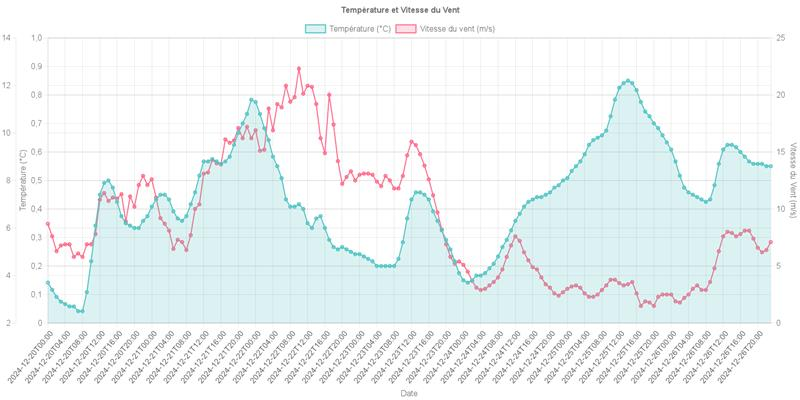
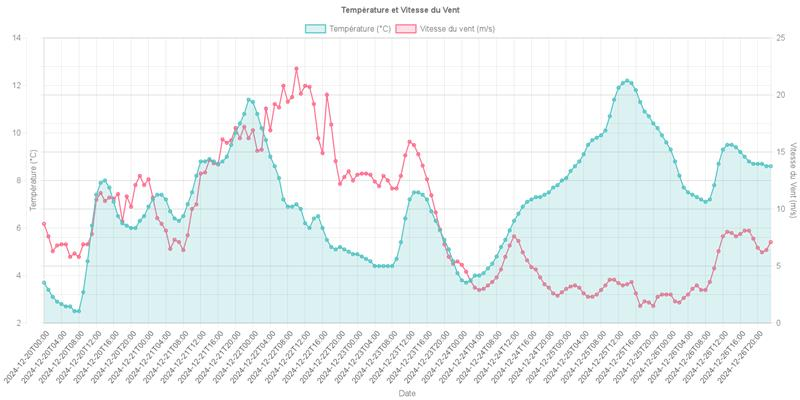
Nouveau graph + index com + image readme

diff --git a/index.js b/index.js
@@ -81,14 +81,16 @@ app.get("/api/meteo/localisation", async (req, res) => {
     const data = await readFile(DATA_FILE, "utf8");
     const jsonData = JSON.parse(data);
     //const loc = jsonData.latitude; // Latitude
+
     // Obtenir l'heure actuelle au format lisible
-    const now = new Date();
-    const formattedTimestamp = now
+    const now = new Date(); // Date formatée UTC 0
+    const utcPlus1 = new Date(now.getTime() + 3600000); // Ajoute 1 heure (3600000 ms) pour utc + 1 (heure française)
+    const formattedTimestamp = utcPlus1
       .toISOString()
       .replace("T", " ")
-      .split(".")[0]; // Format : YYYY-MM-DD HH:mm:ss
+      .split(".")[0]; // Format : YYYY-MM-DD HH:mm:ss permet de garder l'indice 0 et sup les mili
     const objet = {
-      timestamp: formattedTimestamp, // Date formatée UTC 0
+      timestamp: formattedTimestamp,
       data: {
         latitude: jsonData.latitude,
         longitude: jsonData.longitude,

diff --git a/README.md b/README.md
@@ -75,3 +75,9 @@ Une page HTML est incluse dans le projet et permet de récupérer et d'afficher 
   - `/api/meteo/temperatures` : les températures.
   - `/api/meteo/vent` : les vitesses du vent.
 - Affiche ces données dans un tableau.
+
+## Graphique météo
+
+Voici un aperçu du graphique météo généré par l'application :
+
+![Graphique Météo](graphMeteo.jpg)
